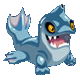
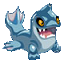
第16次提交：增加游戏名字和制作人的标签；增加程序以及窗口的图标；已完成游戏各功能的设计，以后只会微调参数。

diff --git a/mainwindow.cpp b/mainwindow.cpp
@@ -4,6 +4,7 @@
 #include "interface.h"
 #include <QMediaPlayer>
 #include <QPainter>
+#include <QLabel>
 
 MainWindow::MainWindow(QWidget *parent) :
     QMainWindow(parent),
@@ -11,11 +12,26 @@ MainWindow::MainWindow(QWidget *parent) :
 {
     this->setFixedSize(1068,600);
     ui->setupUi(this);
+    this->setWindowIcon(QIcon(":/Image/pictures/base.png"));
 
     QMediaPlayer* startBGM=new QMediaPlayer(this);
     startBGM->setMedia(QUrl("qrc:/Music/sounds/startBGM.mp3"));
     startBGM->setVolume(30);
     startBGM->play();
+
+    this->_seer=new QLabel(this);
+    this->_seer->setGeometry(220,100,625,300);
+    this->_seer->setFont(QFont("微软雅黑",150,75));//字体，大小，粗细
+    this->_seer->setStyleSheet("color:yellow");//背景颜色，字体颜色
+    this->_seer->setAlignment(Qt::AlignCenter);//居中
+    this->_seer->setText(QString("Seer"));
+
+    this->_maker=new QLabel(this);
+    this->_maker->setGeometry(300,400,468,100);
+    this->_maker->setFont(QFont("微软雅黑",20,20));//字体，大小，粗细
+    this->_maker->setStyleSheet("color:yellow");//背景颜色，字体颜色
+    this->_maker->setAlignment(Qt::AlignCenter);//居中
+    this->_maker->setText(QString("制作人：RUC邓国翾"));
 
     QPushButton *start=new QPushButton(this);
     start->setGeometry(400,500,268,60);
@@ -42,7 +58,7 @@ MainWindow::MainWindow(QWidget *parent) :
     connect(handbook, &QPushButton::clicked, [=]()
     {
         this->_displayHandbook ? this->_displayHandbook = false : this->_displayHandbook = true;
-            update();
+        update();
     });
 
 
@@ -51,6 +67,8 @@ MainWindow::MainWindow(QWidget *parent) :
 
 MainWindow::~MainWindow()
 {
+    delete this->_seer;
+    delete this->_maker;
     delete ui;
 }
 
@@ -64,16 +82,22 @@ void MainWindow::paintEvent(QPaintEvent *){
 void MainWindow::DrawInterface(QPainter &painter){
     painter.drawPixmap(0,0,1068,600,QPixmap(":/Image/pictures/startform.png"));
     painter.drawPixmap(750,440,250,158,QPixmap(":/Image/pictures/logo.png"));
-
 }
 
 void MainWindow::DrawHandbook(QPainter &painter){
     if(this->_displayHandbook){
+        this->_seer->hide();
+        this->_maker->hide();
         painter.setPen(QColor("grey"));
-        painter.setBrush(QBrush(QColor("grey"),Qt::Dense3Pattern));//填充颜色，透明度
-        painter.drawRect(60,60,350,375);
+        painter.setBrush(QBrush(QColor("grey"),Qt::Dense2Pattern));//填充颜色，透明度
+        painter.drawRect(180,60,700,375);
         painter.setBrush(Qt::NoBrush);
         painter.setPen(Qt::NoPen);
-        painter.drawPixmap(60,60,350,375,QPixmap(":/Image/pictures/spirits.png"));
+        painter.drawPixmap(180,60,350,375,QPixmap(":/Image/pictures/spirits.png"));
+        painter.drawPixmap(530,60,320,217,QPixmap(":/Image/pictures/pirates.png"));
+    }
+    else{
+        this->_seer->show();
+        this->_maker->show();
     }
 }

diff --git a/world2.cpp b/world2.cpp
@@ -30,6 +30,7 @@ World2::World2(QWidget *parent) : QMainWindow(parent)
 {
     setFixedSize(1024,640);//设置窗口大小
     setWindowTitle("Map2");//设置窗口名称
+    this->setWindowIcon(QIcon(":/Image/pictures/base.png"));
 
     setMap2();//设定地图
 
@@ -768,31 +769,31 @@ void World2::setPiratesWave(Point **path1, Point **path2, Point *entrance, int*p
         addPirate(1,ways[1],pathLengths[1],entrance[1]);
         addPirate(2,ways[1],pathLengths[1],entrance[3]);
     }
-    else if(this->_count>=68&& this->_count<=75){
+    else if(this->_count>=68&& this->_count<=71){
         this->setPirateBlank(5000);
         addPirate(8,ways[0],pathLengths[0],entrance[0]);
         addPirate(8,ways[1],pathLengths[1],entrance[2]);
     }
-    else if(this->_count>=76&& this->_count<=82){
+    else if(this->_count>=72&& this->_count<=78){
         this->setPirateBlank(3000);
         addPirate(7,ways[0],pathLengths[0],entrance[0]);
         addPirate(7,ways[1],pathLengths[1],entrance[2]);
     }
-    else if(this->_count>=83&& this->_count<=83){
+    else if(this->_count>=79&& this->_count<=79){
         this->setPirateBlank(4000);
         addPirate(1,ways[0],pathLengths[0],entrance[0]);
         addPirate(2,ways[1],pathLengths[1],entrance[2]);
         addPirate(3,ways[0],pathLengths[0],entrance[1]);
         addPirate(4,ways[1],pathLengths[1],entrance[3]);
     }
-    else if(this->_count>=84&& this->_count<=84){
+    else if(this->_count>=80&& this->_count<=80){
         this->setPirateBlank(3000);
         addPirate(5,ways[0],pathLengths[0],entrance[0]);
         addPirate(6,ways[1],pathLengths[1],entrance[2]);
         addPirate(7,ways[0],pathLengths[0],entrance[1]);
         addPirate(8,ways[1],pathLengths[1],entrance[3]);
     }
-    else if(this->_count>=85){
+    else if(this->_count>=81){
         if(this->_pirateVector.empty()){                 //海盗出完了,且海盗打完了
             this->_winLabel->show();
             this->_theEnd=true;//胜利

diff --git a/world1.cpp b/world1.cpp
@@ -30,6 +30,7 @@ World1::World1(QWidget *parent) : QMainWindow(parent)
 {
     setFixedSize(1152,640);//设置窗口大小
     setWindowTitle("Map1");//设置窗口名称
+    this->setWindowIcon(QIcon(":/Image/pictures/base.png"));
 
     setMap1();//设定地图
 
@@ -775,17 +776,17 @@ void World1::setPiratesWave(Point **path1, Point **path2, Point *entrance, int*p
         addPirate(1,ways[1],pathLengths[1],entrance[1]);
         addPirate(2,ways[1],pathLengths[1],entrance[3]);
     }
-    else if(this->_count>=53&& this->_count<=54){
+    else if(this->_count>=53&& this->_count<=53){
         this->setPirateBlank(5000);
         addPirate(8,ways[0],pathLengths[0],entrance[0]);
         addPirate(8,ways[1],pathLengths[1],entrance[2]);
     }
-    else if(this->_count>=55&& this->_count<=57){
+    else if(this->_count>=54&& this->_count<=55){
         this->setPirateBlank(3000);
         addPirate(7,ways[0],pathLengths[0],entrance[0]);
         addPirate(7,ways[1],pathLengths[1],entrance[2]);
     }
-    else if(this->_count>=58){
+    else if(this->_count>=56){
         if(this->_pirateVector.empty()){                 //海盗出完了,且海盗打完了
             this->_winLabel->show();
             this->_theEnd=true;//胜利

diff --git a/interface.cpp b/interface.cpp
@@ -7,6 +7,7 @@ Interface::Interface(QWidget *parent) : QMainWindow(parent)
 {
     this->setFixedSize(500,330);
     setWindowTitle("Level Selection");//设置窗口名称
+    this->setWindowIcon(QIcon(":/Image/pictures/base.png"));
 
     QMediaPlayer* loginBGM=new QMediaPlayer(this);
     loginBGM->setMedia(QUrl("qrc:/Music/sounds/loginBGM.mp3"));

diff --git a/mainwindow.h b/mainwindow.h
@@ -2,7 +2,7 @@
 #define MAINWINDOW_H
 
 #include <QMainWindow>
-
+#include <QLabel>
 
 namespace Ui {
 class MainWindow;
@@ -23,6 +23,8 @@ private:
     void paintEvent(QPaintEvent*);//重载
     void DrawInterface(QPainter&painter);
     void DrawHandbook(QPainter&painter);
+    QLabel* _seer=NULL;
+    QLabel* _maker=NULL;
 
 };
 
